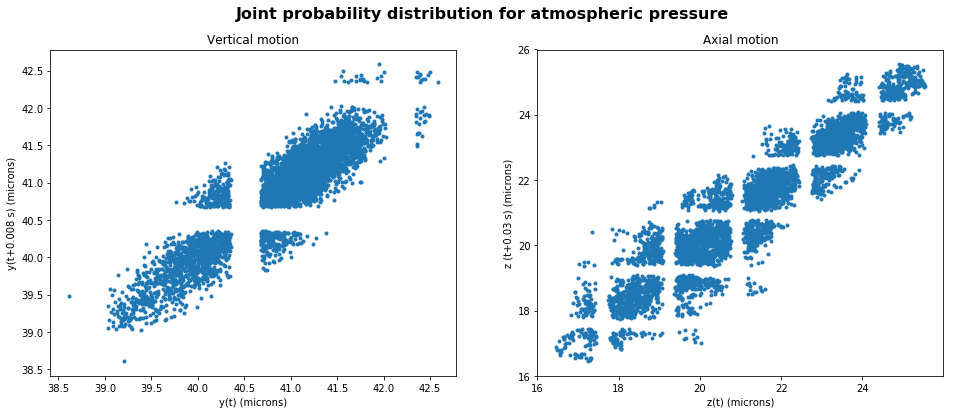
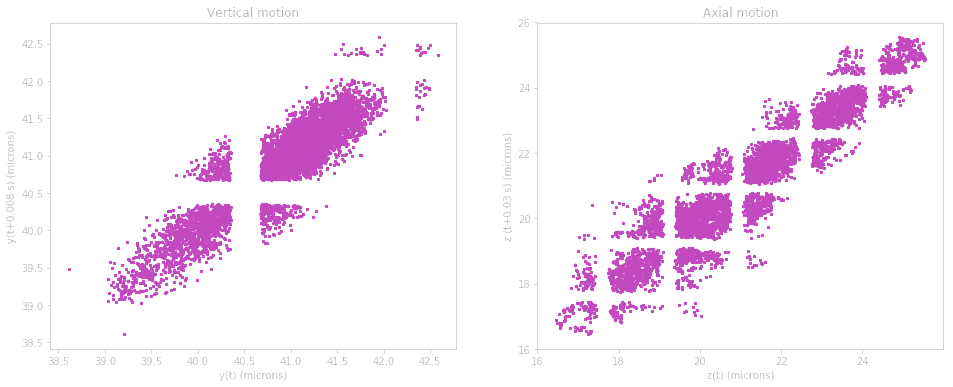
added proj2 text, titles, and edited images to match design.

diff --git a/src/components/projects/project2.jsx b/src/components/projects/project2.jsx
@@ -16,60 +16,183 @@ import verticalDis from "../../assets/images/project2/vertical_dis.png";
 import verticalFFT from "../../assets/images/project2/Vertical_FFT.png";
 import boltzmannDist from "../../assets/images/project2/boltzmannDist.png";
 
-function Project2 (){
+function Project2() {
   opacityFilter();
-    return (
-      <section className="project2-container">
-        <div className="grid1">
-          <div className="image">
-            <img src={trajectories} alt="trajectories" />
-          </div>
-          <div className="image">
-            <img src={axialFFT} alt="axial fft" />
-          </div>
-          <div className="image">
-            <img src={verticalFFT} alt="vertical fft" />
-          </div>
-          <div className="image">
-            <img src={axialDis} alt="axial displacement" />
-          </div>
-          <div className="image">
-            <img src={verticalDis} alt="vertical displacement" />
-          </div>
+  return (
+    <section className="project2-container">
+      <div className="grid1">
+        <div className="section-title">Introduction</div>
+        <p>
+          Magneto-gravitational trapping of diamagnetic materials involves
+          levitation of the particle in a magnetic quadrupole. This quadrupole
+          is required to exhibit a magnetic field of magnitude 18T. According to
+          Earnshaw's Theorem, no combination of classical 1/r^2 forces can
+          result in a stable equilibrium. This means that no array of static
+          magnetic fields alone can levitate a particle - however, through the
+          use of an additional gravitational force the particle can be levitated
+          indefinitely. This creates an equipotential parabola in which the
+          particle exhibits harmonic motion, the specifics of which depend on
+          particle-particle interactions via atmospheric levels.
+          <br />
+          <br />
+        </p>
+        <div className="section-title">Magnetic Quadrupole</div>
+        <div className="image">
+          <img src={trapDiagram} alt="trap diagram" />
         </div>
-        <div className="grid2">
-          <div className="image">
-            <img src={jpdatmos} alt="jpd atmos" />
-          </div>
-          <div className="image">
-            <img src={jpdroughvac} alt="jpd rough vac" />
-          </div>
-          <div className="image">
-            <img src={jpdhighvac} alt="jpd high vac" />
-          </div>
-          <div className="image">
-            <img src={boltzmannDist} alt="boltzmann distribution" />
-          </div>
+        <br />
+        <p>
+          The motion of the particle in the equipotential parabola that exists
+          axially within the quadrupole is caused by both the Brownian (thermal)
+          and gravitational energies. If the particle were placed directly at
+          the bottom of the parabola in pure vacuum and cooled to 0K, it would
+          be stationary. Brownian motion can be quantified by the diffusion
+          constant which arises from the joint-probability distribution.
+        </p>
+        <br />
+        <div className="section-title">Particle Trajectories</div>
+        <div className="image">
+          <img src={trajectories} alt="trajectories" />
         </div>
-        <div className="grid3">
-          <div className="image">
-            <img src={residuals} alt="residuals" />
-          </div>
-          <div className="image">
-            <img src={q_ax} alt="quality axial" />
-          </div>
-          <div className="image">
-            <img src={q_v} alt="quality vertical" />
-          </div>
-          <div className="image">
-            <img src={q_avg} alt="quality average" />
-          </div>
-          {/* <div className="image">
-            <img src={trapDiagram} alt="trap diagram" />
-          </div> */}
+        <br />
+        <p>Particle trajectories in different levels of vacuum.</p>
+        <br />
+        <div className="section-title">Axial Fast-Fourier Transforms</div>
+        <div className="image">
+          <img src={axialFFT} alt="axial fft" />
         </div>
-      </section>
-    );
+        <br />
+        <p>
+          FFTs of axial position data to calculate axial oscillation
+          frequencies.
+        </p>
+        <br />
+        <div className="section-title">Vertical Fast-Fourier Transforms</div>
+        <div className="image">
+          <img src={verticalFFT} alt="vertical fft" />
+        </div>
+        <br />
+        <p>
+          FFTs of vertical position data to calculate vertical oscillation
+          frequencies.
+        </p>
+        <br />
+        <div className="section-title">
+          Axial Displacement Due to Thermal Motion
+        </div>
+        <div className="image">
+          <img src={axialDis} alt="axial displacement" />
+        </div>
+        <br />
+        <p>Absolute value of axial displacement and logarithmic count.</p>
+        <br />
+        <div className="section-title">
+          Vertical Displacement Due to Thermal Motion
+        </div>
+        <div className="image">
+          <img src={verticalDis} alt="vertical displacement" />
+        </div>
+        <br />
+        <p>Absolute value of vertical displacement and logarithmic count.</p>
+        <br />
+      </div>
+      <div className="grid2">
+        <div className="section-title">
+          Joint Probability Distribution for Atmospheric Pressure
+        </div>
+        <div className="image">
+          <img src={jpdatmos} alt="jpd atmos" />
+        </div>
+        <br />
+        <div className="section-title">
+          Joint Probability Distribution for Rough Vacuum
+        </div>
+        <div className="image">
+          <img src={jpdroughvac} alt="jpd rough vac" />
+        </div>
+        <br />
+        <div className="section-title">
+          Joint Probability Distribution for High Vacuum
+        </div>
+        <div className="image">
+          <img src={jpdhighvac} alt="jpd high vac" />
+        </div>
+        <br />
+        <p>
+          Qualitatively, the particle diffusion coefficient is proportional to
+          pressure: as the pressure decreased, the major and minor axes of the
+          ellipse compress, resulting in a smaller diffusion constant. This is
+          because the joint probability distribution is dependent upon the
+          displacement-squared, which gets larger as pressure decreases because
+          there exists less atmosphere to prevent particle movement. Since this
+          displacement term is in a decreasing exponential, it will lower the
+          value of the probability distribution as it increases. As the
+          diffusion constant is proportional to joint probability density, this
+          behavior makes sense.
+          <br />
+          <br />
+          The results of the analysis were all expected and aligned closely with
+          theoretical prediction. The mass of the particles was slightly larger
+          than theory in each case due to being conglomerates of several
+          particles each. The fits were good, with a χ2(reduced average) equal
+          to 8.674366.
+        </p>
+        <br />
+        <div className="section-title">
+          Boltzmann Distribution Fit: Vertical Motion, Atmospheric Pressure
+        </div>
+        <div className="image">
+          <img src={boltzmannDist} alt="boltzmann distribution" />
+        </div>
+        <br />
+        <p>
+          The oscillation frequencies were calculated via the FFTs of the
+          positional data for each of the three particles at their respective
+          pressures. These frequencies were used in conjunction with the
+          “Displacement Due to Thermal Motion” data, which was fitted with a
+          Maxwell-Boltzmann distribution. From the parameters of the fit, the
+          approximate masses of each particle was calculated to be
+          mass_atmosphere = (4.5 ± 0.6) ∗ 10−12kg, mass_rough = (6.1 ± 0.5) ∗
+          10−12kg, and mass_high = (3.8 ± 0.5) ∗ 10−12kg, which was expected.
+          <br />
+          <br />
+          Brownian motion should not be used at high vacuum because by
+          definition it relies upon, and is defined characteristically by, the
+          erratic random movement of microscopic particles in a fluid as a
+          result of continuous bombardment from molecules of the surrounding
+          medium - of which there are very few in high vacuum. Therefore, in
+          this limit of low molecular populations, Brownian motion falls apart
+          and cannot be used for precise and/or accurate calculation.
+        </p>
+        <br />
+      </div>
+      <div className="grid3">
+        <div className="section-title">Residuals</div>
+        <div className="image">
+          <img src={residuals} alt="residuals" />
+        </div>
+        <br />
+        <p>
+          The residuals all show linear trends, which was expected anmd desired.
+        </p>
+        <br />
+        <div className="section-title">Axial Quality Factor</div>
+        <div className="image">
+          <img src={q_ax} alt="quality axial" />
+        </div>
+        <br />
+        <div className="section-title">Vertical Quality Factor</div>
+        <div className="image">
+          <img src={q_v} alt="quality vertical" />
+        </div>
+        <br />
+        <div className="section-title">Averaged Quality Factor Over Both Domains</div>
+        <div className="image">
+          <img src={q_avg} alt="quality average" />
+        </div>
+      </div>
+    </section>
+  );
 }
 
 export default Project2;

diff --git a/src/components/projects/project2.css b/src/components/projects/project2.css
@@ -3,6 +3,12 @@ img {
   width: 100%;
 }
 
+.section-title {
+  font-family: "Barlow Condensed", sans-serif;
+  font-size: 1.375rem;
+  font-weight: 300;
+}
+
 .project2-container {
   height: calc(100% - (165 + 6 * clamp(10px, 4vmin, 40px)));
   width: 100%;
